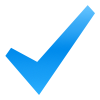
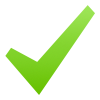
Reverted to green check mark
for the sake of keeping the conditions of the experiment consistent

Changed region(s): [[0.03, 0.03, 0.96, 0.96]]

diff --git a/Experiment/js/mini_test.js b/Experiment/js/mini_test.js
@@ -21,7 +21,7 @@ $( "#send_word" ).submit( function() {
     if (answer == '<?php echo $correct_answer; ?>') {
       document.getElementById('tink').play();
       $("#feedback").attr("src", "images/check.png");
-      $("#testtext").css("color", "#008CED");
+      $("#testtext").css("color", "#67C200");
       setTimeout("SaveMTResponse()", <?php echo $mini_test_feedback_time; ?>);
     }
     else {
